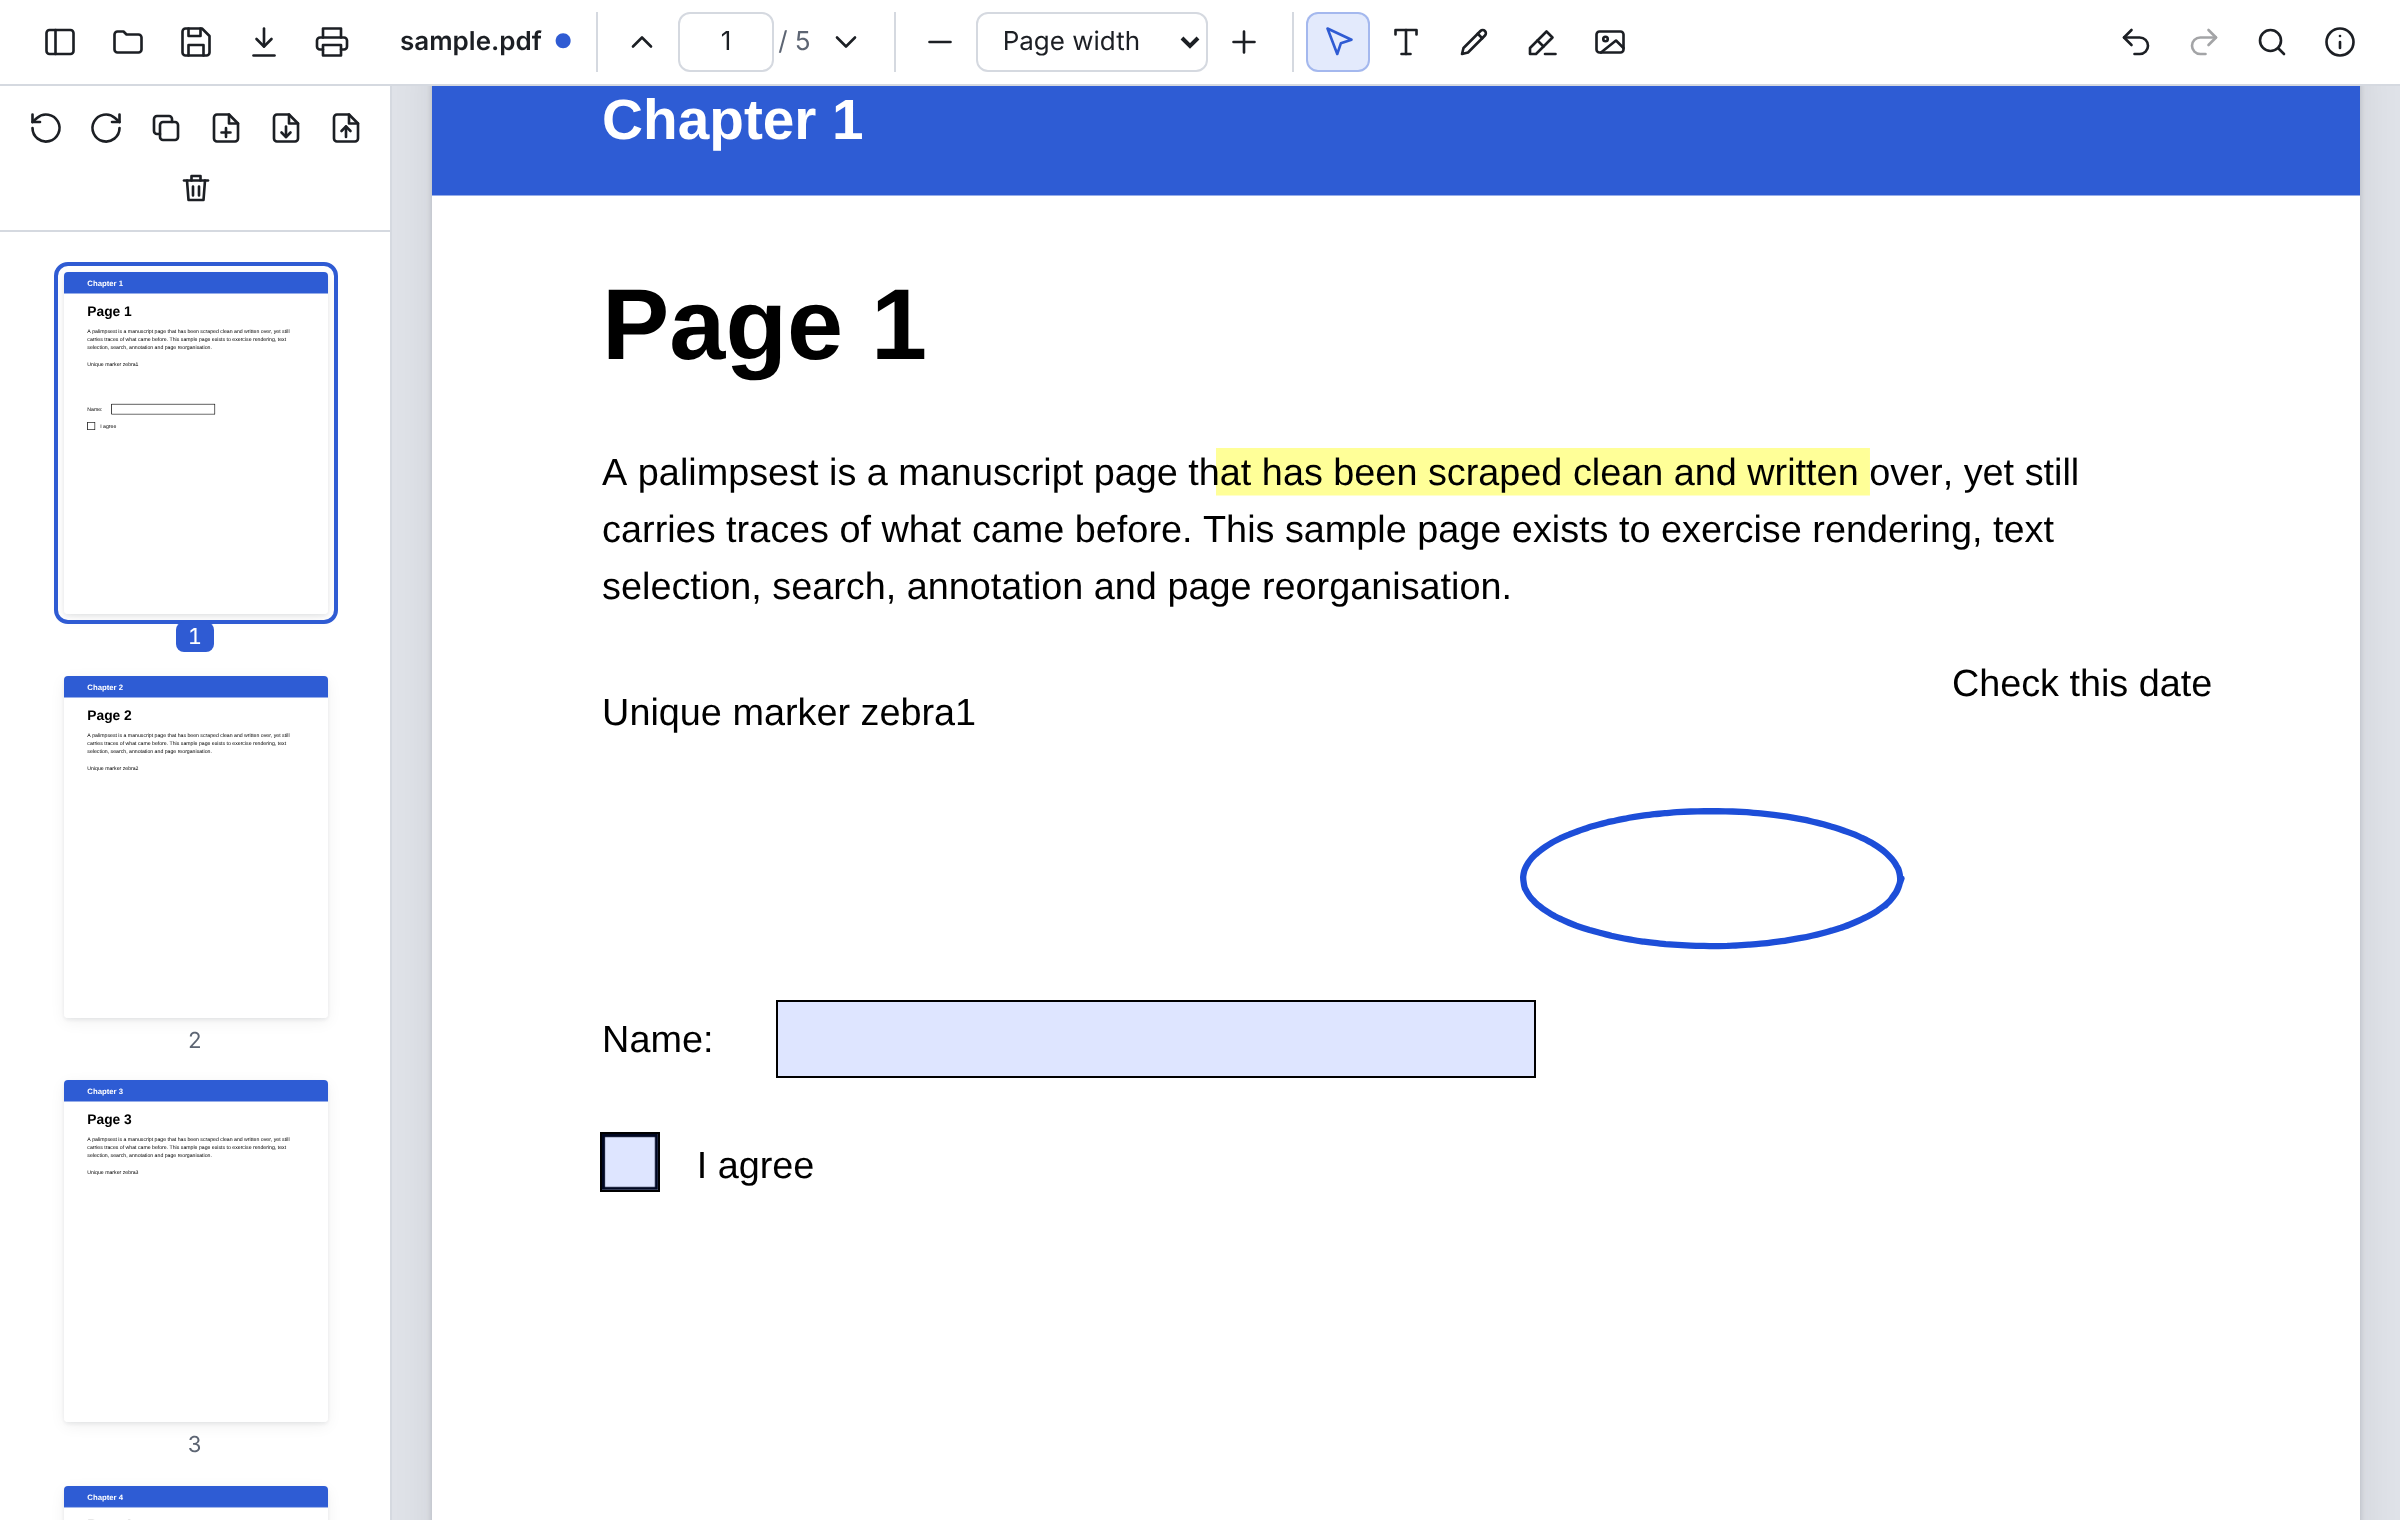
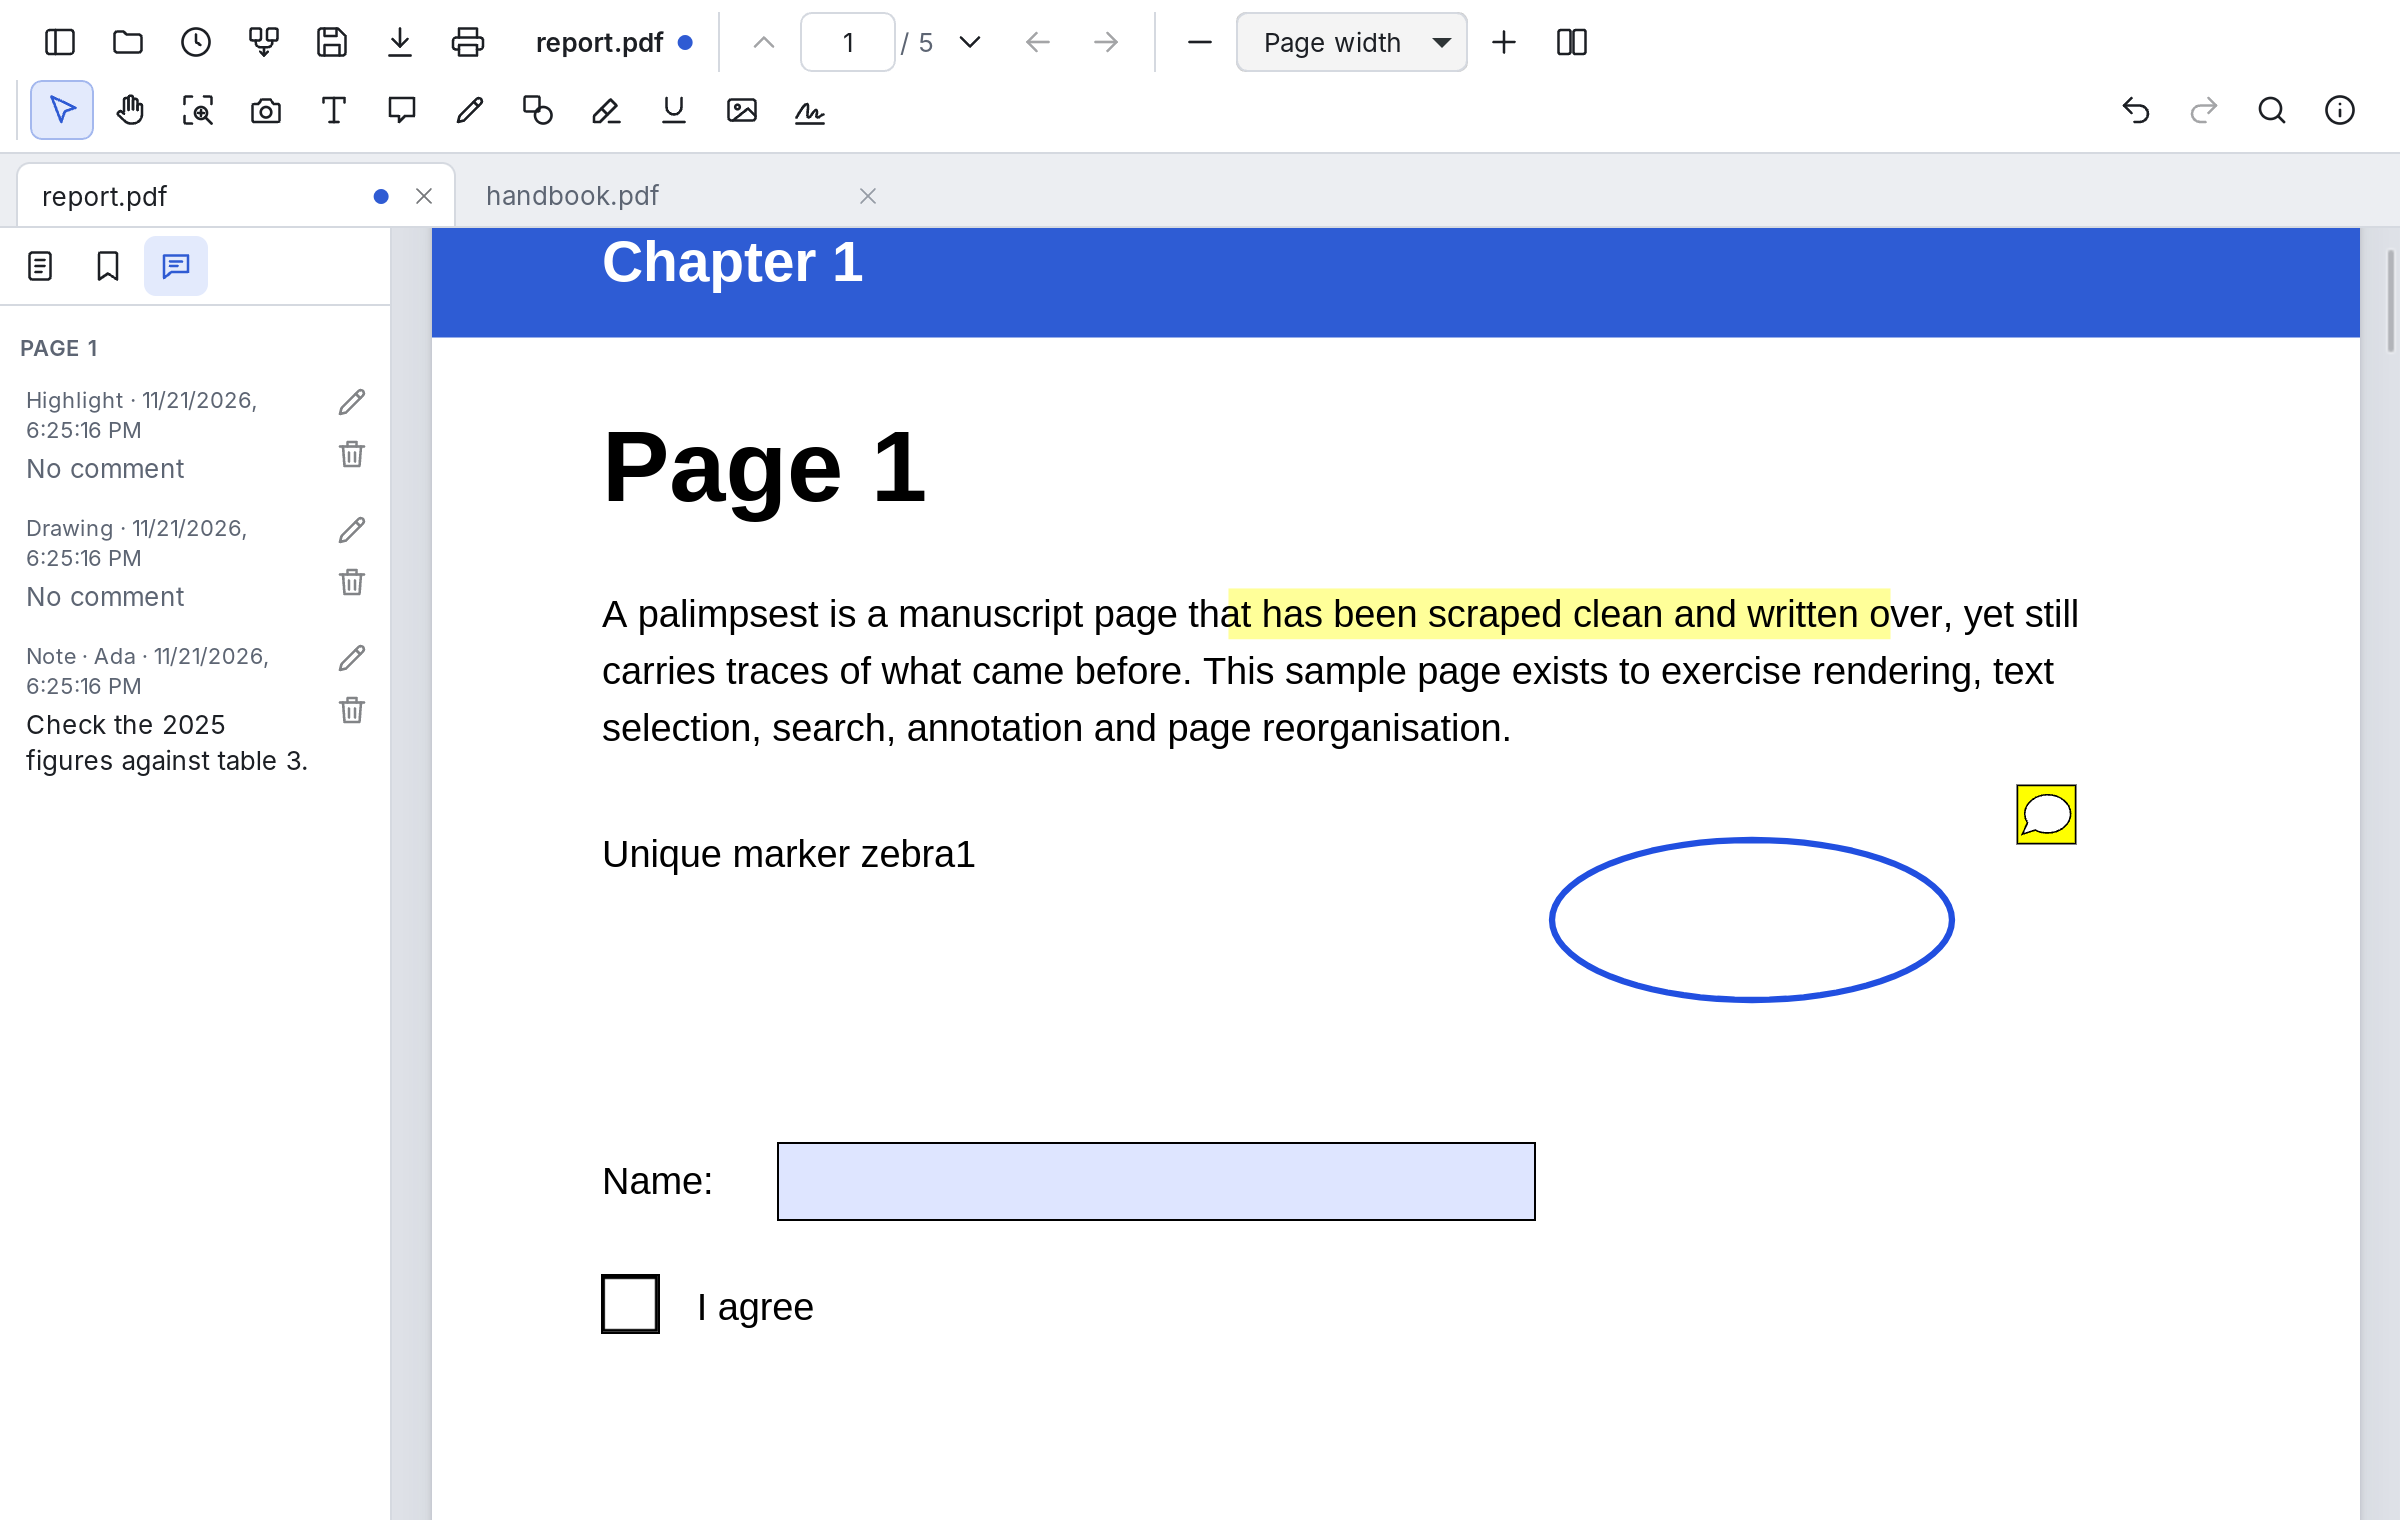
README: the new features, shortcuts, architecture and limitations
Also a new screenshot, and a window-resize helper for the end-to-end
WebDriver client.

Claude-Session: https://claude.ai/code/session_01JQMva61KmQzXzLoYg1uBbN

diff --git a/tests/e2e/webdriver.ts b/tests/e2e/webdriver.ts
@@ -217,6 +217,11 @@ export class Session {
     return this.exec<boolean>("return !!document.querySelector(arguments[0])?.checkVisibility()", css);
   }
 
+  /** Resize the window (CSS pixels). */
+  async resize(width: number, height: number) {
+    await this.#cmd("POST", "/window/rect", { width, height });
+  }
+
   /** A PNG of the window, for looking at a failure. */
   async screenshot() {
     return Buffer.from(await this.#cmd<string>("GET", "/screenshot"), "base64");

diff --git a/README.md b/README.md
@@ -2,18 +2,25 @@
 
 An open source PDF viewer and editor for the desktop. It is a small native app built with [Tauri](https://tauri.app/) that uses the operating system's own web engine, so the Windows build is a single file of about 6–8 MB. Everything happens on your device; files are never uploaded.
 
-![Palimpsest editing a PDF: highlighted text, a drawn ellipse and a text note, with the page list on the left](docs/screenshot.png)
+![Palimpsest with two documents open in tabs: highlighted text, a drawn ellipse and a sticky note on the page, listed in the comments panel on the left](docs/screenshot.png)
 
 ## Features
 
-- **View**: fast rendering, text selection, search (match case / whole words), links, zoom presets and Ctrl+wheel zoom, page thumbnails.
-- **Annotate**: add text, draw, highlight (select text, or draw freely), place images and signature scans. Annotations are saved as standard PDF annotations, so other viewers show them and Palimpsest can edit them again later.
-- **Fill forms**: AcroForm fields render as editable inputs and their values are saved into the file.
+- **View**: fast rendering, text selection, search (match case / whole words), links, zoom presets and Ctrl+wheel zoom, a hand tool, zoom to a dragged box. Page layouts: continuous, single page, wrapped, horizontal, and two-page spreads with or without a cover page. Rotate the view without changing the file. Presentation mode: full screen, a page at a time.
+- **Navigate**: page thumbnails, the document's bookmarks as a tree, Back and Forward after following a link or bookmark, page labels ("iv", "A-3") in the page box.
+- **Tabs**: several documents in one window, each keeping its place, zoom, unsaved edits and undo history.
+- **Annotate**: add text, sticky notes, draw, shapes (rectangle, ellipse, line, arrow), highlight (select text, or draw freely), underline, strike out or squiggle text, place images. Annotations are saved as standard PDF annotations, so other viewers show them and Palimpsest can edit them again later.
+- **Comments**: a panel lists every comment and markup by page, with its author and date; edit a comment or delete it from there.
+- **Fill & Sign**: check marks, crosses, dots, today's date, and signatures or initials typed or drawn with the mouse, pen or finger. Signatures can be kept on this device (in the app's own storage, nowhere else) for next time.
+- **Fill forms**: AcroForm fields render as editable inputs and their values are saved into the file. Form JavaScript runs (calculated totals, formatting, validation) in pdf.js's sandbox.
 - **Organise pages**: rotate, delete, duplicate, reorder by dragging, insert blank pages, insert pages from other PDFs (drop them on the page list), save a selection as a new PDF.
 - **Split and merge**: split a document into several PDFs, every N pages or by page ranges such as `1-3, 4, 5-`, saved to a folder you choose. Merge PDFs, in an order you set, into a new document; the open document can be one of them, unsaved edits included. Password-protected files can be merged after you enter their password; the merged document has no password.
-- **Document properties**: edit title, author, subject and keywords.
+- **Attachments and layers**: save files attached to a PDF; show or hide its optional-content layers.
+- **Export and copy**: export pages as PNG or JPEG at 72, 150 or 300 dpi; copy a dragged box of a page to the clipboard as an image.
+- **Print**: all pages, the current or selected pages, or a range; with or without comments; fitted to the paper or at actual size.
+- **Document properties**: edit title, author, subject and keywords; see dates, security and permissions, forms, digital signatures, tagging, and the fonts used.
 - **Undo/redo** across both annotation edits and page operations.
-- **Save in place**: a file opened from disk, from the command line or with "Open with" is written back to the same file. Save as and print are also included.
+- **Save in place**: a file opened from disk, from the command line or with "Open with" is written back to the same file. Recently opened files are listed on the start screen and reopen where you left off.
 - **Works offline**, with light and dark themes.
 
 ## Download (Windows)
@@ -70,13 +77,18 @@ The [Release workflow](.github/workflows/release.yml) runs on a Windows runner. 
 | Action | Keys |
 | --- | --- |
 | Open / Save / Save as / Print | Ctrl+O / Ctrl+S / Ctrl+Shift+S / Ctrl+P |
+| Next / previous tab, close tab | Ctrl+Tab / Ctrl+Shift+Tab, Ctrl+W |
 | Find | Ctrl+F, then Enter / Shift+Enter |
 | Zoom in / out / reset | Ctrl+= / Ctrl+− / Ctrl+0 (or Ctrl+wheel) |
+| Rotate the view clockwise / counterclockwise | Ctrl+Shift+= / Ctrl+Shift+− |
+| Back / Forward | Alt+← / Alt+→ |
+| Presentation mode (Esc leaves it) | Ctrl+L |
 | Undo / Redo | Ctrl+Z / Ctrl+Shift+Z or Ctrl+Y |
-| Tools: select, text, draw, highlight, image | V, T, D, H, I (Esc returns to select) |
+| Tools: select, zoom to area, text, note, draw, shapes | V, Z, T, N, D, S |
+| Tools: highlight, underline/strike out, image, Fill & Sign | H, U, I, G (Esc returns to select) |
 | Page list: move, extend selection, select all | Arrows, Shift+Arrows, Ctrl+A |
 | Page list: delete / duplicate selected | Delete / Ctrl+D |
-| Toggle page list | F4 |
+| Toggle sidebar | F4 |
 
 ## How it works
 
@@ -85,18 +97,27 @@ The [Release workflow](.github/workflows/release.yml) runs on a Windows runner. 
 | Rendering, text layer, search, links, forms | [pdf.js](https://github.com/mozilla/pdf.js) viewer component (`pdfjs-dist/web/pdf_viewer.mjs`) |
 | Annotation editing and saving | pdf.js annotation editor; `saveDocument()` appends edits as an incremental update |
 | Reorder, delete, duplicate, insert, extract, split, merge | pdf.js page assembler (`PDFDocumentProxy.extractPages`), which writes a new file containing only reachable objects, so deleted pages are really gone. It keeps forms, outlines, named destinations, page labels and the structure tree. |
-| Rotation, metadata, blank pages | [pdf-lib](https://github.com/Hopding/pdf-lib) |
+| Shapes, text markup, Fill & Sign marks and signatures | pdf.js editors restored from the data pdf.js copies to its clipboard (`src/marks.ts`): ink for shapes, markup and marks, text for the date, an image for a signature |
+| Form JavaScript | pdf.js scripting manager and its sandbox (QuickJS compiled to WebAssembly) |
+| Rotation, metadata, blank pages, sticky notes, comment edits | [pdf-lib](https://github.com/Hopding/pdf-lib) |
 | Desktop shell | [Tauri](https://tauri.app/) (`src-tauri/`): the web app in `dist/` is embedded in the binary and served from the app's own origin with a strict CSP. The page gets no Tauri APIs; it reaches files only through a narrow bridge (`window.palimpsestDesktop`) backed by Rust commands and native dialogs. |
 | Web engine | The system webview: WebView2 (Chromium-based Edge) on Windows, WKWebView on macOS, WebKitGTK on Linux |
 
-The page can only read and write files the user picked in a dialog or passed on the command line. Splitting asks for a folder, and the shell then allows writing only the named PDFs there. Saves go to a temporary file beside the target and are then renamed over it, so a failed save never truncates the original.
+The page can only read and write files the user picked in a dialog or passed on the command line. Splitting (or exporting images) asks for a folder, and the shell then allows writing only the named PDFs (or images) there. The shell keeps the recent files list, with where the reader was in each file, in the app's data folder; the page can add only a file it may already use and open only what is on the list. Saves go to a temporary file beside the target and are then renamed over it, so a failed save never truncates the original.
 
-A page operation first folds pending annotations and form values into the current bytes, transforms them, and reloads the result. Each step keeps a snapshot for undo. Annotation edits between page operations use pdf.js's own undo stack.
+A page operation first folds pending annotations and form values into the current bytes, transforms them, and reloads the result. Each step keeps a snapshot for undo. Annotation edits between page operations use pdf.js's own undo stack. There is one viewer: a tab that is not showing keeps its document as the bytes it would be saved as, its pending edits folded in and kept as one undo step.
 
 ```
 src/
-  app.ts          UI controller: viewer wiring, tools, page ops, save, undo
+  app.ts          UI controller: viewer wiring, tools, tabs, page ops, save, undo
   pageops.ts      page plans → pdf.js extractPages(); pdf-lib edits
+  comments.ts     sticky notes and comment edits (pdf-lib)
+  marks.ts        shapes, text markup and Fill & Sign marks as pdf.js editor data
+  signatures.ts   typed and drawn signatures, kept on this device
+  panels.ts       sidebar panels: bookmarks, attachments, layers, comments
+  navhistory.ts   Back / Forward through link and bookmark jumps
+  menu.ts         toolbar drop-down menus
+  docinfo.ts      document properties: permissions, fonts
   thumbnails.ts   page list: lazy thumbnails, selection, drag and drop
   files.ts        open/save through the desktop bridge
   desktop.ts      types for the desktop bridge
@@ -131,12 +152,17 @@ The end-to-end tests answer the app's file dialogs through the test hooks, drive
 - Text that is already in the PDF can't be edited in place. You can annotate over it, or cover it with an image.
 - Reorganising pages (delete, move, insert, duplicate) rebuilds the file without optional-content layers, the document-level XMP metadata, and document JavaScript.
 - Rotation and property edits use pdf-lib, which can't write encrypted PDFs. These actions show an error on encrypted files. Opening (with the password), annotating, form filling and page reorganisation still work, and the saved file stays encrypted.
-- Signatures are visual (drawn or image) only. There is no cryptographic signing, and changing a digitally signed PDF flags or invalidates its signatures.
+- Signatures are visual (typed, drawn or an image) only. There is no cryptographic signing, and changing a digitally signed PDF flags or invalidates its signatures.
 - The annotation tools are unavailable on pure XFA forms.
 - `pdfjs-dist` is pinned to an exact version because the app uses its viewer and page-assembly APIs.
 - macOS is untested: there is no WebDriver for its webview. Printing there goes through the native print sheet, and files opened from Finder are not handled yet (macOS passes them as an event, not on the command line).
 - On Linux, printing uses the paper size chosen in the print dialog rather than the PDF's page size.
 - Dragging pages in the page list is tested by dispatching the page's drag events; the system's own drag session can't be automated.
+- Shapes, underline, strike-out and Fill & Sign marks are saved as Ink annotations (and the date as a FreeText annotation), because pdf.js has editors only for those types. Other readers show them as drawn, but list them as drawings rather than as rectangles or underlines.
+- Sticky notes and comment edits are made with pdf-lib, so, like rotation, they are not available on encrypted files, and each one reloads the document.
+- Switching tabs folds the tab's pending annotation edits into one undo step.
+- Opening a file from another launch of the app (or "Open with" while it runs) opens it in a new window, not a tab.
+- Typed signatures use the system's script fonts (Segoe Script on Windows, Snell Roundhand on macOS); where there are none, a plain cursive font.
 
 ## License
 
